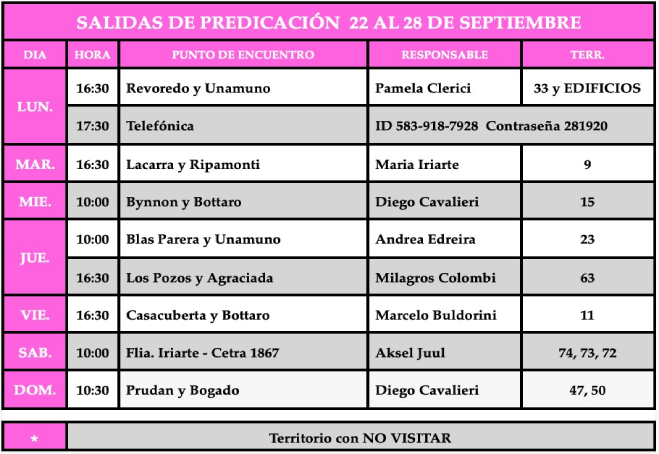
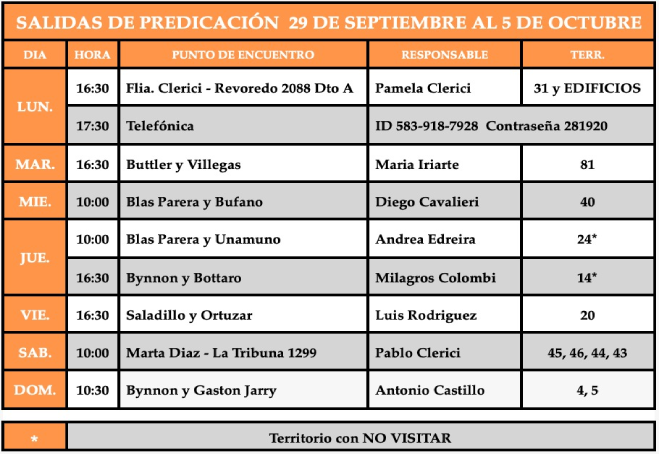
actualizo salida, limpieza y programa

diff --git a/pages/programaSemanal/programaSemanal.html b/pages/programaSemanal/programaSemanal.html
@@ -39,7 +39,7 @@
     <main>
         <section class="reuSemanal">
             <h2> Programa para la reunión entre semana</h2>
-            <img src="./asignacionesSeptiembre.png" alt="">
+            <img src="./asignacionesOctubre.png" alt="">
         </section>
     </main>
     <footer>
